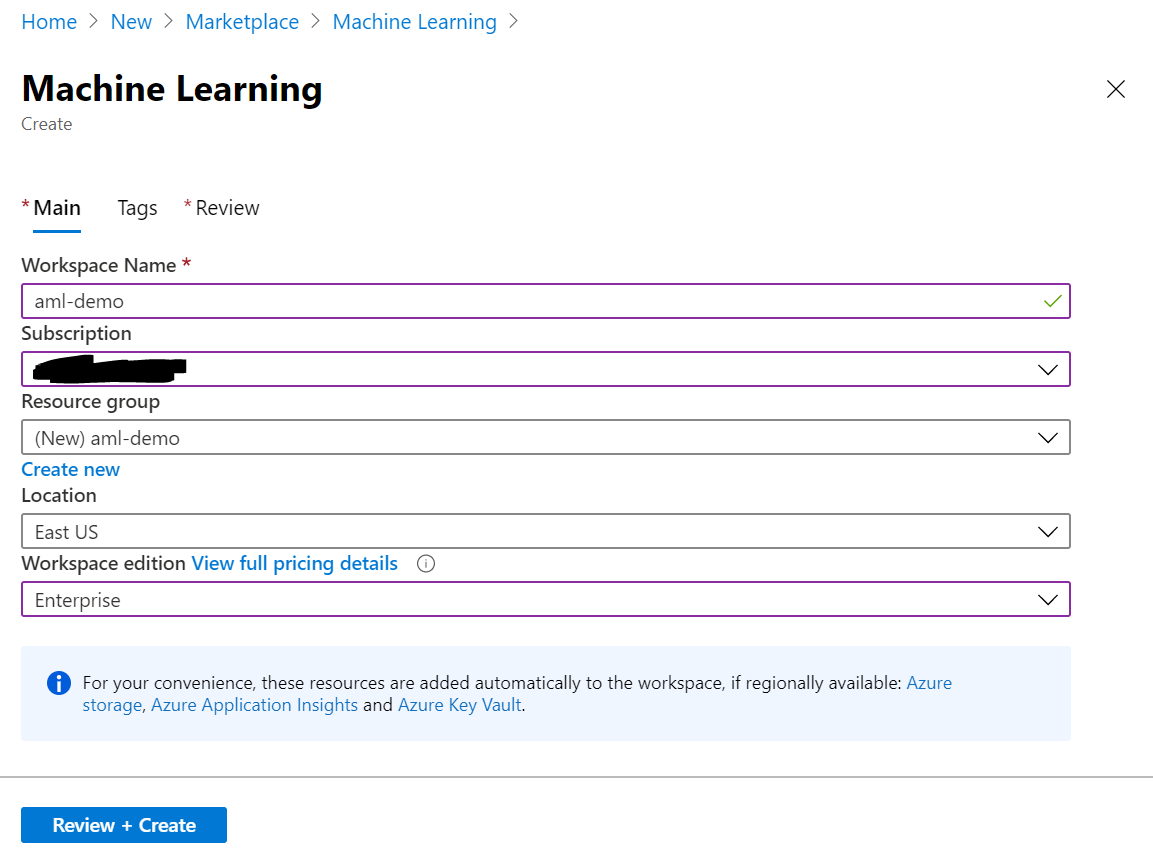
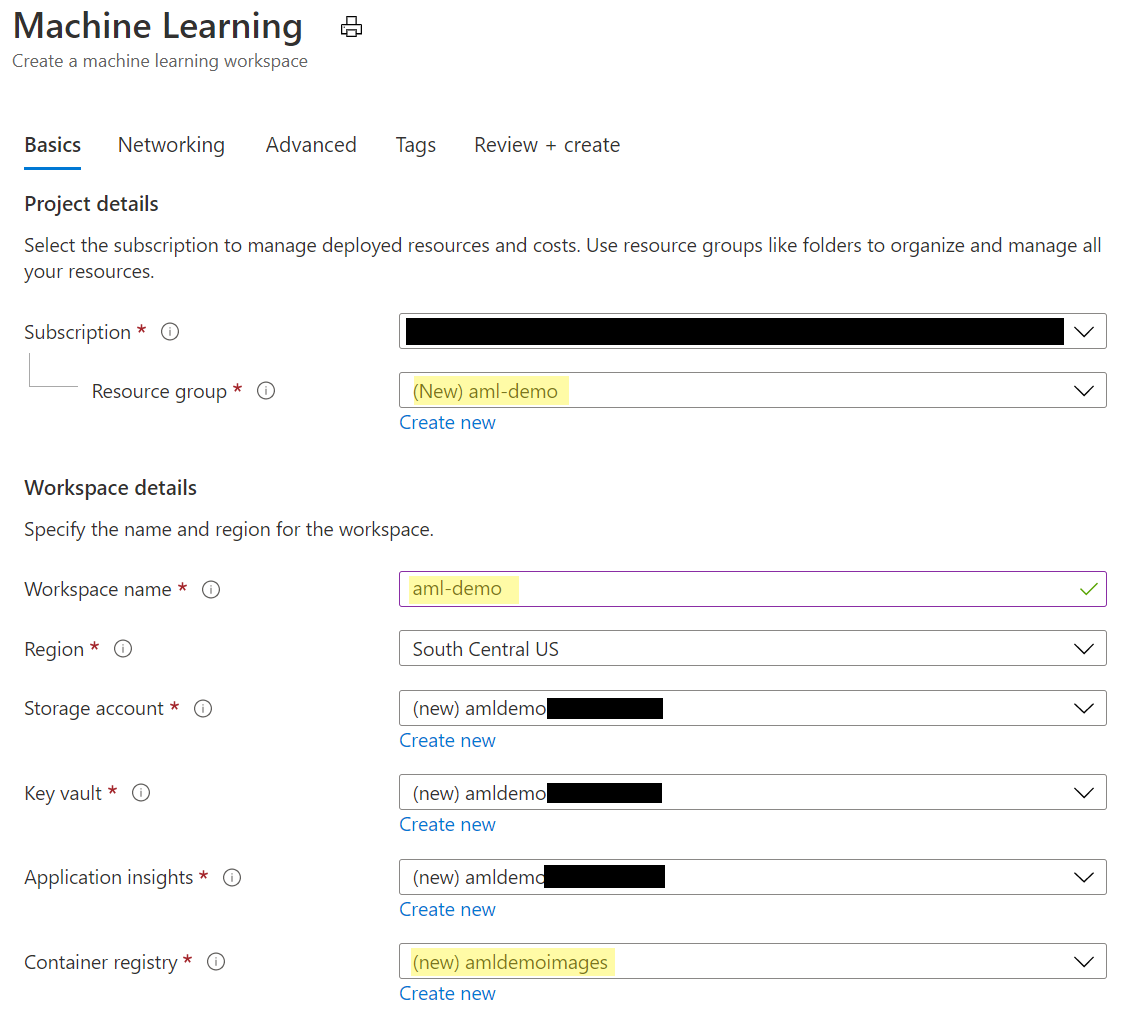
Prerequisites README updates (#21)
* Resize graphics

* README updates for R and MLOps

* R Updates for prerequisites README

diff --git a/instructions/00-prerequisites.md b/instructions/00-prerequisites.md
@@ -1,12 +1,22 @@
 # Prerequisites
 
-This tutorial assumes that you have an Azure Machine Learning service provisioned. If you do not have one yet, please follow [this tutorial](https://docs.microsoft.com/en-us/azure/machine-learning/how-to-manage-workspace#create-a-workspace). This repo uses the following defaults:
+This tutorial assumes that you have an Azure Machine Learning service provisioned. If you do not have one yet, please follow [this tutorial](https://docs.microsoft.com/en-us/azure/machine-learning/how-to-manage-workspace#create-a-workspace). This repo uses the following values:
 
-* Workspace name: `aml-demo`
-* Resource group name: `aml-demo`
-* Workspace edition: `Enterprise`
+* **Workspace name:** `Create new` using `aml-demo`
+* **Resource group name:** `aml-demo`
+* **Region:** Accept default region
+* **Storage account:** Accept (new) default
+* **Key vault:** Accept (new) default
+* **Application insights:** Accept (new) default
+* **Container registry:** `Create new` with a unique name
+
+AML will automatically create a Container registry instance for you upon first running a training experiment. For this example, we want to create it at Workspace creation time to hold [R Environment](01-Renvironment.md) images.
+
+See below for an example:
 
 ![alt text](media/00-new_workspace.png "New Workspace")
+
+# Development Environment
 
 Depending on your preference, you can either work directly on your local laptop using Docker (Path 1), or remotely connect to a `Compute Instance` (Path 2). Both paths will work, but depending on your system restrictions (e.g., not full admin rights to your laptop), you might want to use Path 2.
 
@@ -24,7 +34,7 @@ Follow this path if:
 
 Some parts might already be fulfilled (editor, SSH keys), hence feel free to skip those steps.
 
-1. Execute training Python code on local laptop using `python` or startup script to make sure it is working properly
+1. Execute your R code on local laptop using `Rscript` to make sure it is working properly.
 
 1. Install Azure CLI
     * Follow the documentation [here](https://docs.microsoft.com/en-us/cli/azure/install-azure-cli?view=azure-cli-latest) to install the Azure CLI.
@@ -51,15 +61,13 @@ Follow this path if:
 
 Some parts might already be fulfilled (editor, SSH keys), hence feel free to skip those steps.
 
-1. Execute training Python code on local laptop using `python` or startup script to make sure it is working properly
+1. Execute R code on local laptop using `Rscript` to make sure it is working properly.
 
-1. Setup local editor with remote extension (Visual Studio Code or PyCharm)
-    1. *Option 1* - Install Visual Studio Code with Remote Development extension pack
-        * Install [Visual Studio Code](https://code.visualstudio.com/)
-        * Install [Remote Development](https://marketplace.visualstudio.com/items?itemName=ms-vscode-remote.vscode-remote-extensionpack)
-    1. *Option 2* - Use existing PyCharm installation
-        * Install PyCharm (TODO)
-        * Setup Remote development (TODO)
+1. *Optional* Setup local Visual Studio Code with remote extension and R support
+    * Install [Visual Studio Code](https://code.visualstudio.com/) 
+    * Install [Remote Development](https://marketplace.visualstudio.com/items?itemName=ms-vscode-remote.vscode-remote-extensionpack)
+    * Install [R support for Visual Studio Code](https://marketplace.visualstudio.com/items?itemName=Ikuyadeu.r)
+
 
 1. Generate SSH Key
     * Open Terminal
@@ -69,19 +77,24 @@ Some parts might already be fulfilled (editor, SSH keys), hence feel free to ski
 1. Provision Compute Instance in Azure Machine Learning
     * Open [Azure Machine Learning Studio UI](https://ml.azure.com)
     * Navigate to `Compute --> Compute Instances`
-    * Select `+ New`
-    * Select a `Compute name` (doesn't matter)
-    * Select a `Virtual Machine size`
+    * Select `Create`
+    * Select a `Virtual Machine Type` (CPU is default)
+    * Select a `Virtual Machine size` (e.g. Standard_DS3_v2)
+    * Click Next
+    * Enter a name for the Compute Instance (e.g. aml-demo-ci)
     * Enable `SSH Access`
     * Paste your public key from `~/.ssh/id_rsa.pub` in `SSH public key`
-    * Hit `Create`
+    * Select `Create`
     ![alt text](media/00-create_ci.png "Create CI")
     * Wait until instance has been provisioned
-    * Select `SSH` under Application URI and copy the `Login using local account` command
-    ![alt text](media/00-ssh_details.png "SSH Details")
-    [![Create an AML Compute Instance - Click to watch!](https://img.youtube.com/vi/Q54irUdf-_s/0.jpg)](https://youtu.be/Q54irUdf-_s)
 
-1. Connect remotely to the Compute Instance
+1. Connect to RStudio Server on the Compute Instance
+    * On the Compute Instances page, select `RStudio` to start a remote RStudio Server session in your browser. R are preinstalled for you on the Compute Instance. The Azure CLI with ML extension is preinstalled and is usable through the RStudio Terminal window.
+
+1. *Optional* Connect remotely to the Compute Instance using Visual Studio Code
+    * On the Compute Instances page, select `SSH` under Application URI and copy the `Login using local account` command
+    ![alt text](media/00-ssh_details.png "SSH Details")
+
     * Start `Visual Studio Code`
     * Select `Remote Explorer`
     * Click `+ Add new SSH Target`
@@ -89,15 +102,4 @@ Some parts might already be fulfilled (editor, SSH keys), hence feel free to ski
     * Save update to `C:\Users\username\.ssh\config` (Windows) or `~/.ssh/config` (macOS, Linux)
     * Right-click the new `SSH Targets` entry and select `Connect to Host in Current Window`
 
-1. *Optional* - Mount default Fileshare from Azure Machine Learning to local laptop
-    * Open the [Azure Portal](https://portal.azure.com)
-    * Navigate to your Azure Machine Learning's `Resource Group`
-    * Select the Azure Machine Learning's `Storage Account` (named same as the Machine Learning service with some number, e.g., `amldemo12345678`)
-    * Select `File shares`
-    * Search for prefix `code` and select the matching file share
-    ![alt text](media/00-storage_account.png "Storage Account")
-    * Click `Connect`
-    * Follow the instructions to mount the share under Windows, Linux or macOS
-    ![alt text](media/00-connect.png "Connect details")
-
-Now that you have your environment up and running, we can move to the [next section](01-Renvironment.md) and create an R environment.
+Now that you have your development environment up and running, we can move to the [next section](01-Renvironment.md) and create an R environment for AML.

diff --git a/instructions/README.md b/instructions/README.md
@@ -1,15 +1,15 @@
-# Migrating your Machine Learning code to Azure Machine Learning - Best Pratice
+# Migrating your R code to Azure Machine Learning - Best Practice
 
-This tutorial will show an easy and proven way on how to get your existing
+This tutorial will show an easy and proven way to get your existing
 
 * Machine Learning training code
 * Machine Learning prediction/inferencing code
 
-running Azure Machine Learning. Furthermore, it shows how to automate it using ML pipelines and Azure DevOps (or other CI/CD platforms).
+running Azure Machine Learning. Furthermore, it shows how to automate it using ML pipelines and GitHub Actions for MLOps.
 
 ## Guided Approach
 
-You recommend you to follow the proven step-by-step guidelines, which will cover everything from setup, running at scale, and automation:
+We recommend you to follow the proven step-by-step guidelines, which will cover everything from setup, running at scale, and automation:
 
 1. [Prerequisites](00-prerequisites.md) - Setup of initial environemnt
 1. [Creating R environments for Azure Machine Learning](01-Renvironment.md) - Build R environments for training and inferencing
